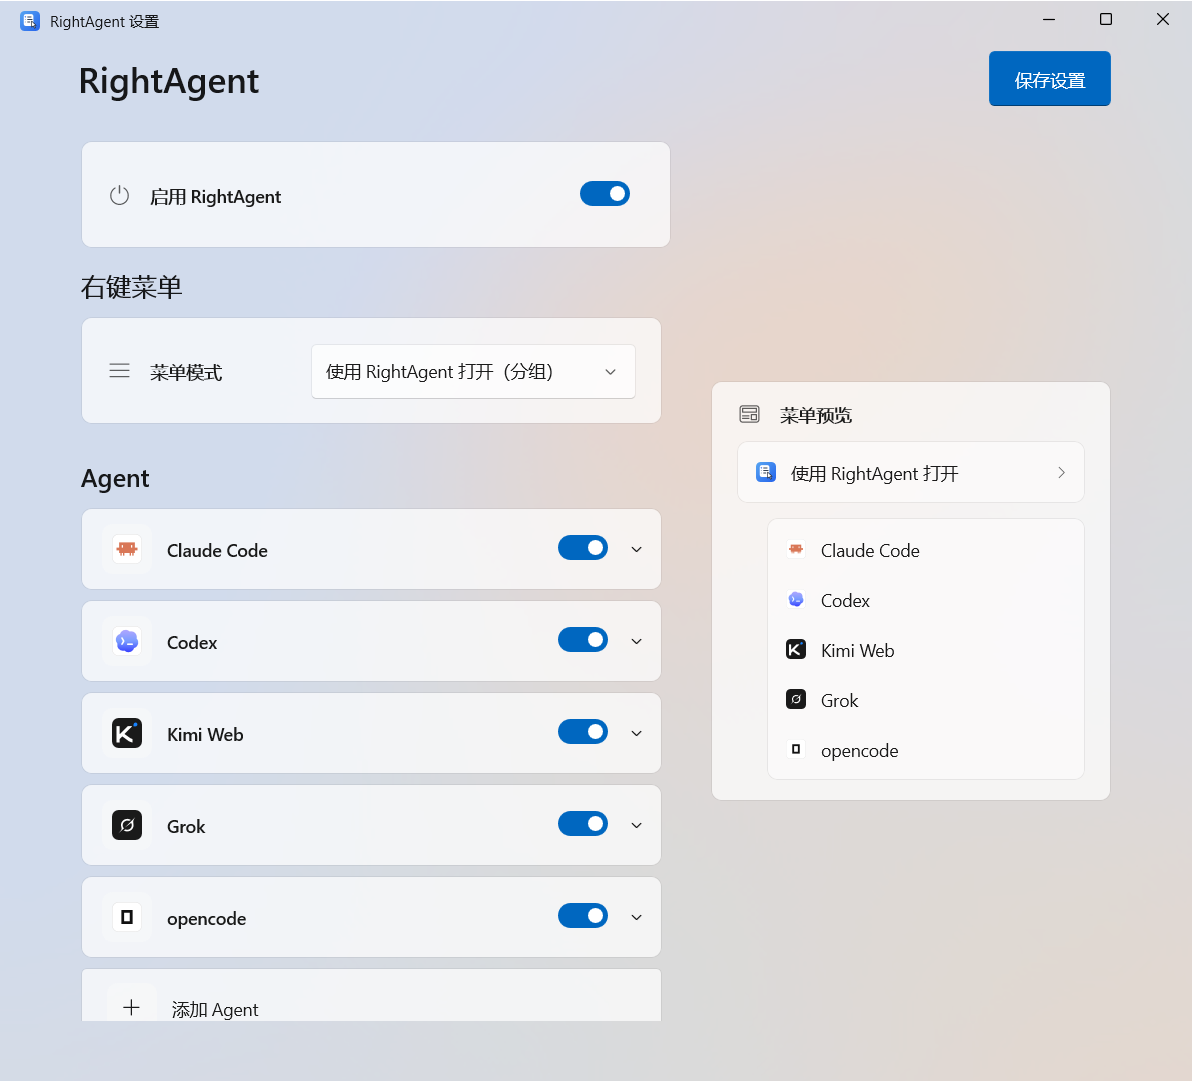
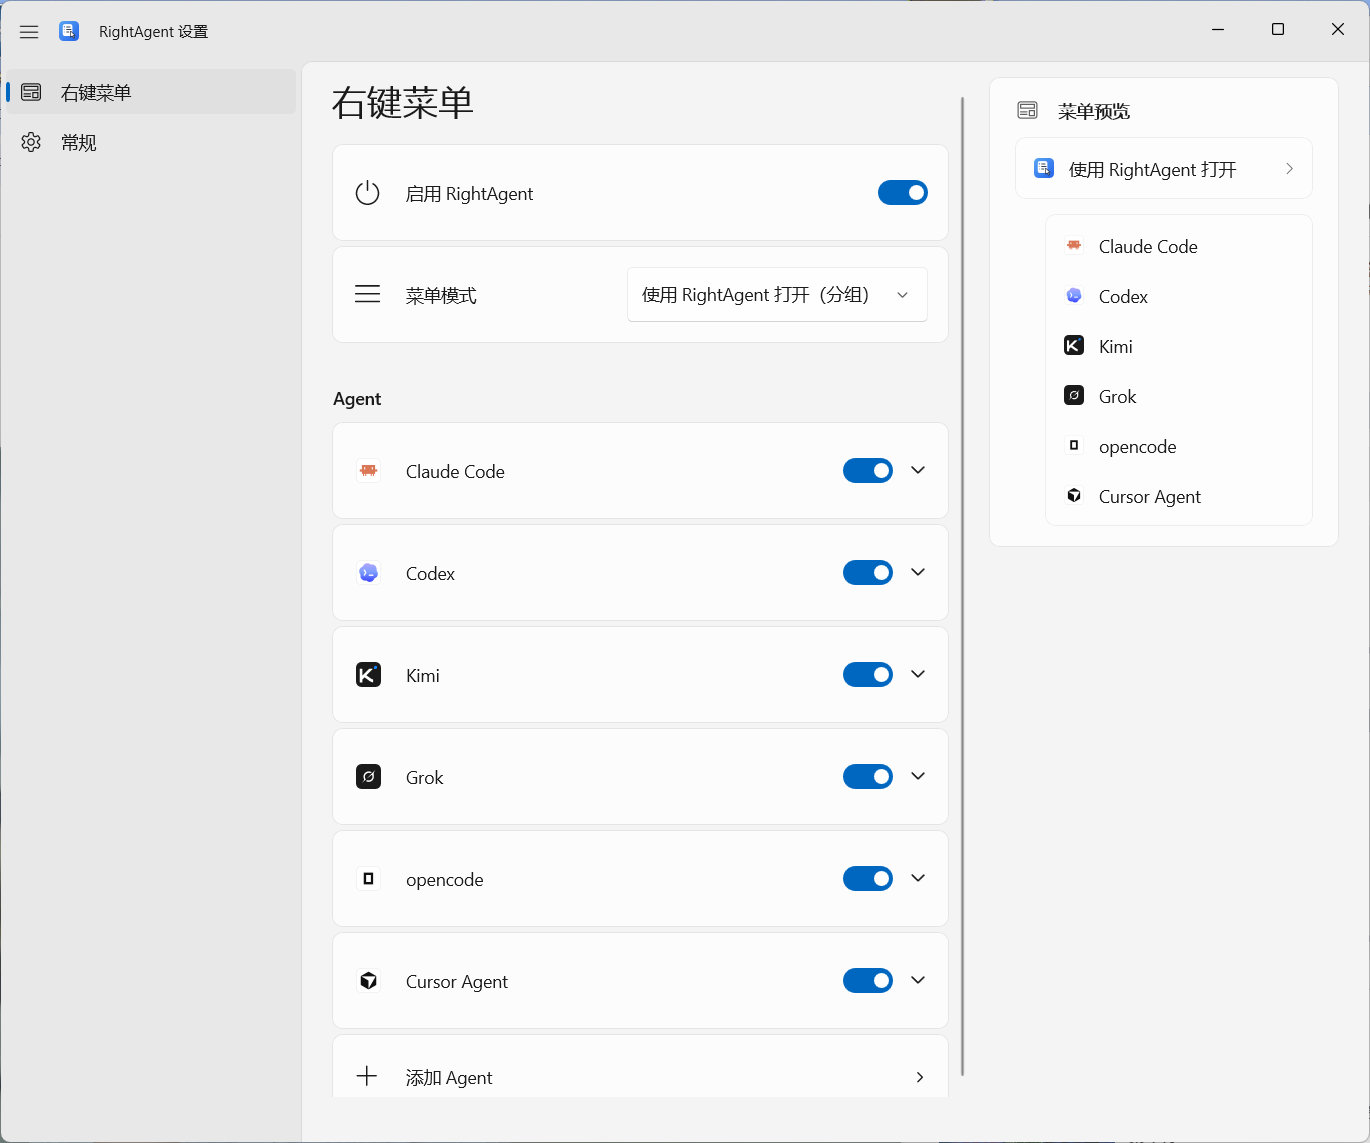
docs: trim both READMEs and refresh screenshots for the new settings UI

diff --git a/README.en.md b/README.en.md
@@ -18,7 +18,7 @@ Open with RightAgent  >
     Cursor Agent
 ```
 
-Right-click a folder background or a single selected folder and open that directory with your preferred AI coding agent. RightAgent supports a grouped submenu, one direct agent, or multiple direct commands that place every enabled agent at the context-menu root. The WinUI 3 settings app manages the menu mode, enabled agents, order, commands, URLs, icons, interface language, and Windows Terminal profile.
+Right-click a folder or a folder background and open that directory with your preferred AI coding agent. The menu mode, agent list, commands, icons, interface language, and Windows Terminal profile are all managed in one WinUI 3 settings app.
 
 RightAgent has no tray process, background service, telemetry, or automatic updater. Closing the settings window exits the application completely.
 
@@ -26,93 +26,34 @@ RightAgent has no tray process, background service, telemetry, or automatic upda
 
 ## Features
 
-- **Three menu modes**: a grouped submenu, one direct agent, or multiple direct commands ordered exactly like the enabled agent list.
-- **Six built-in agents**: Claude Code, Codex, Kimi, Grok, opencode, and Cursor Agent.
-- **Fully customizable**: add, rename, enable, disable, and reorder arbitrary agents; actions can be terminal commands or `http` and `https` URLs.
-- **Custom icons**: local PNG, JPG, BMP, and ICO files are normalized to ICO.
-- **Bilingual interface**: follow the system language or explicitly select Simplified Chinese or English.
-- **Uses the Windows Terminal profile as the shell**: the chosen profile supplies its own shell, icon, and colors. There is no separate command-interpreter setting.
-- **Master switch**: turn the complete context menu on or off.
-- **Live preview**: see the resulting menu immediately; settings use atomic writes and recover from corrupted files through backup and replacement.
+- **Three menu modes**: a grouped submenu, one direct agent, or every enabled agent placed directly at the context-menu root.
+- **Six built-in agents**: Claude Code, Codex, Kimi, Grok, opencode, and Cursor Agent, ready out of the box.
+- **Fully customizable**: add, rename, reorder, and toggle agents freely; actions can be terminal commands or `http(s)` URLs, and local images are normalized to ICO.
+- **Uses your Windows Terminal profile**: tabs open with the profile's own shell, icon, and colors.
+- **Bilingual UI + live preview**: follow the system language or pick one explicitly; the preview pane shows the resulting menu immediately, and a master switch disables the whole menu at once.
 
 | Direct mode | English interface |
 | --- | --- |
 | ![Direct mode](docs/screenshots/after-direct.png) | ![English interface](docs/screenshots/after-english.png) |
 
-## Requirements
-
-- Windows 11 x64, build 22000 or newer.
-- Windows Terminal (`wt.exe`).
-
 ## Installation
 
-Download `RightAgent-1.3.1-x64-Setup.exe` and its matching `.sha256` file from the [official GitHub Release](https://github.com/y0ung-jg-1/RightAgent/releases/latest). Verify the SHA-256 and double-click Setup. The public installer is per-machine: it requests administrator approval and places the settings app in `%ProgramFiles%\RightAgent`. The Setup UI follows the Windows display language (Chinese or English). First install trusts the project public certificate in Local Computer\Trusted People, writes settings to `%LOCALAPPDATA%\RightAgent`, and registers only the command packages required by the current menu. To prevent Windows 11 from grouping multiple direct commands, Setup internally carries 16 hidden command packages; users still download one EXE and see only one RightAgent entry in Start. The private key is never distributed. See the [sideload installation guide](docs/SIDELOAD_INSTALL.en.md) for complete steps and security details.
+Requires Windows 11 x64 (build 22000 or newer) and Windows Terminal (`wt.exe`).
 
-### Build and install from source
+Download `RightAgent-1.3.1-x64-Setup.exe` from the [official GitHub Release](https://github.com/y0ung-jg-1/RightAgent/releases/latest), verify it against the matching `.sha256` file, and double-click Setup. Installation requests administrator approval and trusts the project public certificate in Local Computer\Trusted People; settings live in `%LOCALAPPDATA%\RightAgent`. See the [sideload installation guide](docs/SIDELOAD_INSTALL.en.md) for complete steps and security details.
 
-Create a per-user development certificate matching the package manifest, then build, sign, and install:
+> The current version registers only the modern Windows 11 context menu. Classic “Show more options” commands are planned for a later phase.
 
-```powershell
-.\scripts\New-DevCertificate.ps1
-.\scripts\Build.ps1 -Configuration Release
-.\scripts\Sign-PackageSet.ps1 -Configuration Release
-.\scripts\Install-DevPackage.ps1 -Configuration Release
-```
+## Build from source
 
-You can also build, sign, and install in one step. Settings stay in `%LOCALAPPDATA%\RightAgent`.
+Requires Visual Studio 2026 Community (WinUI app development, C++ desktop development, C++ WinUI tools, MSIX/WAP tools, Windows 11 SDK 26100+) and the .NET 10 SDK; run `.\scripts\Validate-Environment.ps1` after setup. Build, sign, and install a development build in one step:
 
 ```powershell
 .\scripts\Install-DevBuild.ps1
 ```
 
-Certificates are written beneath the ignored `.local\signing` directory. Never commit or share the PFX. On first installation, `Install-DevPackage.ps1` requests administrator approval and imports only the public CER into Local Computer\Trusted People, never Trusted Root Certification Authorities. Remove the development certificate when it is no longer needed.
-
-To debug only the settings interface without registering the File Explorer menu, run:
-
-```powershell
-.\scripts\Run-SettingsApp.ps1
-```
-
-## Behavior
-
-- Right-clicking a folder background uses that folder; right-clicking one selected folder uses the selection.
-- Files, multiple selections, virtual folders, and non-file-system locations are hidden or disabled.
-- Terminal actions open a new Windows Terminal window using the selected profile's own shell. The Terminal window remains open after the agent exits.
-- On startup, the settings app checks for `wt.exe`. If Windows Terminal is unavailable, it explains the requirement and offers the official Microsoft Store installation entry.
-- URL actions permit only `http` and `https`.
-- Missing executables are detected before Terminal opens; the error dialog offers a button to open RightAgent settings.
-- Settings are atomically written to `%LOCALAPPDATA%\RightAgent\settings.json`.
-
-Built-in agent icons use glyphs from [@lobehub/icons](https://github.com/lobehub/lobe-icons) under the MIT License. They are packaged locally and are never fetched at runtime. See the [third-party notices](THIRD_PARTY_NOTICES.md) and [brand asset policy](docs/BRAND_ASSETS.md).
-
-## Build and test
-
-```powershell
-.\scripts\Test.ps1 -Configuration Debug
-.\scripts\Build.ps1 -Configuration Release
-```
-
-The main x64 MSIX is written beneath `artifacts\package\Release`, with 16 hidden command MSIX packages in its `Commands` subdirectory. The solution contains the native core, launcher, File Explorer extension, COM surface tests, and managed settings tests.
-
-The toolchain requires Visual Studio 2026 Community with WinUI app development, C++ desktop development, C++ WinUI tools, MSIX/WAP tools, and Windows 11 SDK 10.0.26100 or newer, plus .NET 10 SDK. Run `.\scripts\Validate-Environment.ps1` after setup. The repository does not require Node.js, Electron, Tauri, Rust, a database, or a background service.
-
-GitHub Actions continuous integration runs the full test suite and builds an unsigned release-identity package set on the `windows-2025` hosted runner. The tag workflow reads signing secrets only from the dedicated release environment, signs the 16 command MSIX packages, uses WiX 7 to build and sign the per-machine `Setup.exe`, creates its SHA-256 file, and opens a draft GitHub Release. Public Releases contain only the installer and checksum; Setup carries the internal packages, dependencies, and public certificate. The signing key is never exposed to ordinary push or pull-request builds. See the [continuous integration workflow](.github/workflows/ci.yml) and [release workflow](.github/workflows/release.yml).
-
-## Repository map
-
-- `RightAgent.App`: C# WinUI 3 settings application.
-- `RightAgent.Core`: managed settings schema, defaults, validation, command detection, and atomic persistence.
-- `RightAgent.Shell`: native `IExplorerCommand` COM component for the modern Windows 11 menu.
-- `RightAgent.Launcher`: short-lived native process that opens Terminal or a URL.
-- `RightAgent.Native.Core`: shared native settings, icon, quoting, and process helpers.
-- `RightAgent.Package`: WAP identity used for command-package version and assets, not the settings app users install.
-- `RightAgent.CommandPackage`: shared manifest template for the 16 hidden File Explorer command packages.
-- `installer`: WiX 7 Burn definition for the public per-machine `Setup.exe`.
-
-Details: [architecture](docs/ARCHITECTURE.md) · [settings schema](docs/SETTINGS_SCHEMA.md) · [test matrix](docs/TEST_MATRIX.md) · [release guide](docs/RELEASING.md) · [v1 release decisions](docs/RELEASE_DECISIONS.md).
+Run `.\scripts\Run-SettingsApp.ps1` to debug only the settings UI without registering the context menu, and `.\scripts\Test.ps1` for the test suite. For details, see the [architecture](docs/ARCHITECTURE.md), [settings schema](docs/SETTINGS_SCHEMA.md), and [release guide](docs/RELEASING.md) docs.
 
 ## License
 
-RightAgent is open source under the [MIT License](LICENSE). See the [third-party notices](THIRD_PARTY_NOTICES.md) for bundled components and icon copyright notices. Third-party trademarks remain the property of their respective owners.
-
-> The current version registers only the modern Windows 11 context menu. Classic “Show more options” commands are planned for a later phase and will reuse the same settings and launcher.
+RightAgent is open source under the [MIT License](LICENSE). Built-in agent icons use glyphs from [@lobehub/icons](https://github.com/lobehub/lobe-icons) (MIT), packaged locally and never fetched at runtime. See the [third-party notices](THIRD_PARTY_NOTICES.md) for full copyright notices; third-party trademarks remain the property of their respective owners.

diff --git a/README.md b/README.md
@@ -18,101 +18,42 @@
     Cursor Agent
 ```
 
-在文件夹空白处或选中一个文件夹后点击右键，即可用喜欢的 AI 编程助手打开当前目录。RightAgent 支持分组菜单、单个 Agent 直达，以及把多个已启用 Agent 同时放在右键菜单根目录的多个直达模式。菜单模式、启用状态、排列顺序、命令、网址、图标、界面语言和 Windows Terminal 配置文件，都可以在 WinUI 3 设置应用中统一管理。
+在文件夹上或文件夹空白处点击右键，即可用喜欢的 AI 编程助手打开当前目录。菜单模式、助手列表、命令、图标、界面语言和 Windows Terminal 配置文件，都在 WinUI 3 设置应用里统一管理。
 
-RightAgent 没有托盘进程、后台服务、遥测或自动更新；关闭设置窗口后，程序会完全退出。
+RightAgent 没有托盘进程、后台服务、遥测和自动更新；关闭设置窗口后，程序完全退出。
 
 ![RightAgent 设置界面](docs/screenshots/after-brands.png)
 
 ## 功能特性
 
-- **三种菜单模式**：分组子菜单、单个 Agent 直达，或按配置顺序显示全部已启用 Agent 的多个直达命令。
+- **三种菜单模式**：分组子菜单、单个 Agent 直达，或把全部已启用助手平铺进右键菜单根目录。
 - **六个内置助手**：Claude Code、Codex、Kimi、Grok、opencode 和 Cursor Agent，开箱即用。
-- **完全可定制**：可以添加、重命名、启停和排序任意助手；动作支持终端命令或 `http`、`https` 网址。
-- **自定义图标**：本地 PNG、JPG、BMP、ICO 文件会自动规范化为 ICO。
-- **双语界面**：可以跟随系统，也可以明确选择简体中文或英文。
-- **沿用 Windows Terminal 配置文件**：打开标签页时使用该配置文件自己的 Shell、图标和配色，不再另外选择命令解释器。
-- **总开关**：一键停用或启用整个右键菜单。
-- **实时预览**：右侧即时展示菜单最终效果；设置采用原子写入，文件损坏时会自动备份并重建。
+- **完全可定制**：自由添加、重命名、排序和启停助手；动作支持终端命令或 `http(s)` 网址，本地图片会自动规范化为 ICO。
+- **沿用 Windows Terminal 配置文件**：打开标签页时使用该配置文件自己的 Shell、图标和配色。
+- **中英双语 + 实时预览**：界面语言可跟随系统；右侧即时展示菜单最终效果，一键总开关随时停用整个菜单。
 
 | 直达模式 | 英文界面 |
 | --- | --- |
 | ![直达模式](docs/screenshots/after-direct.png) | ![英文界面](docs/screenshots/after-english.png) |
 
-## 运行环境
-
-- Windows 11 x64，系统版本 22000 或更新。
-- Windows Terminal（`wt.exe`）。
-
 ## 安装
 
-请从[官方 GitHub Release](https://github.com/y0ung-jg-1/RightAgent/releases/latest)下载 `RightAgent-1.3.1-x64-Setup.exe` 与同名 `.sha256` 文件，核对 SHA-256 后双击安装。公开安装器是本机版，需要管理员批准，设置应用装到 `%ProgramFiles%\RightAgent`。安装器界面跟随 Windows 显示语言（中文 / 英文）。首次安装会把项目公共证书导入“本地计算机\受信任的人”，设置写在 `%LOCALAPPDATA%\RightAgent`，并只注册当前菜单需要的命令包。为避免 Windows 11 把多个直达命令归组，Setup 内部包含 16 个隐藏命令包，但用户仍只需下载一个 EXE，开始菜单也只显示一个 RightAgent。发布包不包含私钥。完整步骤与安全说明见[侧载安装说明](docs/SIDELOAD_INSTALL.md)。
+需要 Windows 11 x64（22000 或更新）和 Windows Terminal（`wt.exe`）。
 
-### 从源码开发
+从[官方 GitHub Release](https://github.com/y0ung-jg-1/RightAgent/releases/latest)下载 `RightAgent-1.3.1-x64-Setup.exe`，用同名 `.sha256` 文件核对校验值后双击安装。安装需要管理员批准，会把项目公共证书导入“本地计算机\受信任的人”；设置保存在 `%LOCALAPPDATA%\RightAgent`。完整步骤与安全说明见[侧载安装说明](docs/SIDELOAD_INSTALL.md)。
 
-创建与包清单匹配的按用户开发证书，然后构建、签名并安装：
+> 当前版本只注册 Windows 11 新右键菜单；经典“显示更多选项”菜单计划在下一阶段加入。
 
-```powershell
-.\scripts\New-DevCertificate.ps1
-.\scripts\Build.ps1 -Configuration Release
-.\scripts\Sign-PackageSet.ps1 -Configuration Release
-.\scripts\Install-DevPackage.ps1 -Configuration Release
-```
+## 从源码开发
 
-也可以一键完成构建、签名和安装。设置保存在 `%LOCALAPPDATA%\RightAgent`。
+需要 Visual Studio 2026 Community（WinUI 应用开发、C++ 桌面开发、C++ WinUI 工具、MSIX/WAP 工具、Windows 11 SDK 26100+）和 .NET 10 SDK，先运行 `.\scripts\Validate-Environment.ps1` 检查环境。一键构建、签名并安装开发版：
 
 ```powershell
 .\scripts\Install-DevBuild.ps1
 ```
 
-证书文件会写入已被忽略的 `.local\signing` 目录。请勿提交或分享 PFX。首次安装时，`Install-DevPackage.ps1` 会请求管理员批准，仅将公共 CER 导入“本地计算机\受信任的人”，不会加入“受信任的根证书颁发机构”。不再需要时，请移除该开发证书。
-
-只调试设置界面、不注册资源管理器菜单时，可以运行：
-
-```powershell
-.\scripts\Run-SettingsApp.ps1
-```
-
-## 行为说明
-
-- 右键文件夹空白处时使用当前文件夹；右键单个选中的文件夹时使用被选文件夹。
-- 对文件、多选、虚拟文件夹和非文件系统位置，菜单会自动隐藏或禁用。
-- 终端动作会打开新的 Windows Terminal 窗口，并使用所选配置文件自己的 Shell。助手退出后，终端窗口保持打开。
-- 设置应用启动时会检测 `wt.exe`；未检测到 Windows Terminal 时，会说明原因并提供 Microsoft Store 安装入口。
-- 网址动作只允许 `http` 和 `https`。
-- 在打开终端前会检测可执行文件；缺失时，错误窗口会提供打开 RightAgent 设置的按钮。
-- 设置会原子写入 `%LOCALAPPDATA%\RightAgent\settings.json`。
-
-内置助手图标使用 [@lobehub/icons](https://github.com/lobehub/lobe-icons)（MIT）字形，全部随应用本地打包，运行时不会联网获取。版权声明见[第三方声明](THIRD_PARTY_NOTICES.md)，商标与公开发版要求见[品牌资产策略](docs/BRAND_ASSETS.md)。
-
-## 构建与测试
-
-```powershell
-.\scripts\Test.ps1 -Configuration Debug
-.\scripts\Build.ps1 -Configuration Release
-```
-
-构建产物是 `artifacts\package\Release` 下的 1 个 x64 主程序 MSIX，以及 `Commands` 子目录中的 16 个隐藏命令 MSIX。解决方案包含原生核心、启动器、资源管理器扩展、COM 接口测试和托管设置测试。
-
-开发环境需要 Visual Studio 2026 Community（WinUI 应用开发、C++ 桌面开发、C++ WinUI 工具、MSIX/WAP 工具、Windows 11 SDK 10.0.26100 或更新版本）以及 .NET 10 SDK。安装完成后，先运行 `.\scripts\Validate-Environment.ps1` 检查环境。本仓库不需要 Node.js、Electron、Tauri、Rust、数据库或后台服务。
-
-GitHub Actions 的持续集成会在 `windows-2025` 托管运行器上执行完整测试，并构建不带签名的正式身份包集合。标签发布工作流会从专用发布环境读取签名机密，签名 16 个命令 MSIX，使用 WiX 7 生成并签名本机 `Setup.exe`，再生成 SHA-256 文件和 GitHub Release 草稿。公开 Release 只包含安装器和对应校验文件；内部 MSIX、依赖和公共证书由安装器携带。发布私钥不会进入普通推送或拉取请求构建。工作流见[持续集成](.github/workflows/ci.yml)与[正式发布](.github/workflows/release.yml)。
-
-## 仓库结构
-
-- `RightAgent.App`：C# WinUI 3 设置应用。
-- `RightAgent.Core`：托管设置结构、默认值、校验、命令探测和原子持久化。
-- `RightAgent.Shell`：用于 Windows 11 新右键菜单的原生 `IExplorerCommand` COM 组件。
-- `RightAgent.Launcher`：负责打开终端或网址的短生命周期原生进程。
-- `RightAgent.Native.Core`：共享的原生设置、图标、引号转义和进程辅助代码。
-- `RightAgent.Package`：命令包版本与资源所用的 WAP 身份，不是用户安装的设置应用。
-- `RightAgent.CommandPackage`：16 个隐藏资源管理器命令包共用的清单模板。
-- `installer`：公开本机 `Setup.exe` 的 WiX 7 Burn 定义。
-
-实现细节见[架构文档](docs/ARCHITECTURE.md)，数据约定见[设置结构说明](docs/SETTINGS_SCHEMA.md)，人工验收范围见[测试矩阵](docs/TEST_MATRIX.md)，发布操作见[发版指南](docs/RELEASING.md)，v1 发布取舍见[发布决策记录](docs/RELEASE_DECISIONS.md)。
+只调试设置界面、不注册右键菜单时运行 `.\scripts\Run-SettingsApp.ps1`，运行测试用 `.\scripts\Test.ps1`。实现细节见[架构文档](docs/ARCHITECTURE.md)、[设置结构说明](docs/SETTINGS_SCHEMA.md)与[发版指南](docs/RELEASING.md)。
 
 ## 许可证
 
-RightAgent 以 [MIT 许可证](LICENSE)开源。随包第三方组件和图标的版权声明见[第三方声明](THIRD_PARTY_NOTICES.md)；第三方商标仍归各自权利人所有。
-
-> 当前版本只注册 Windows 11 新右键菜单；经典“显示更多选项”菜单的命令计划在下一阶段复用同一套设置和启动器加入。
+RightAgent 以 [MIT 许可证](LICENSE)开源。内置助手图标使用 [@lobehub/icons](https://github.com/lobehub/lobe-icons)（MIT）字形，随应用本地打包，运行时不联网获取；完整版权声明见[第三方声明](THIRD_PARTY_NOTICES.md)，第三方商标归各自权利人所有。
